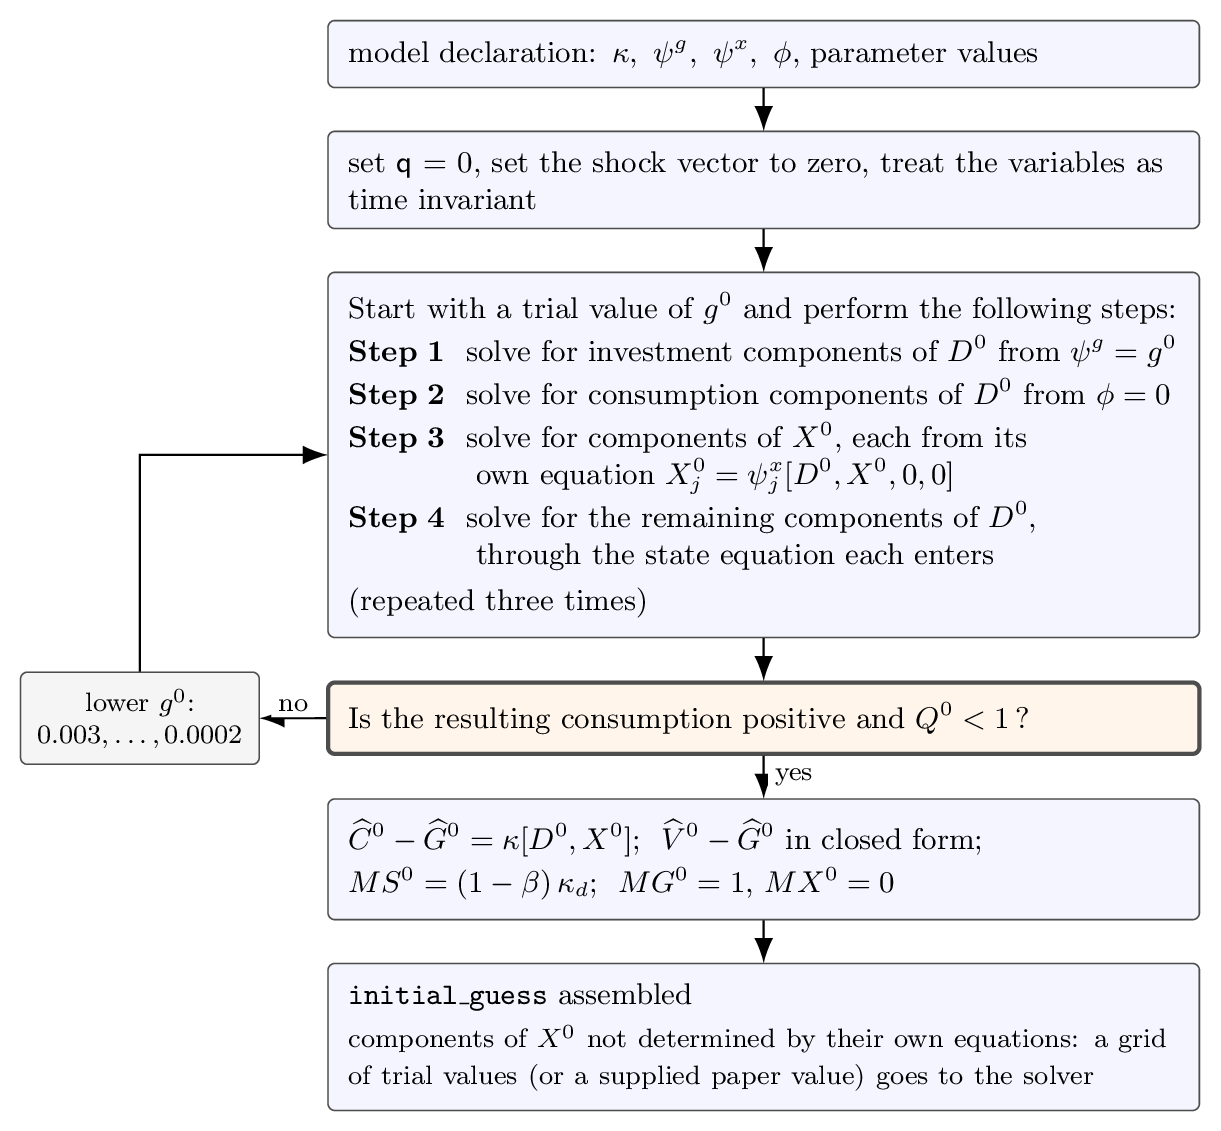
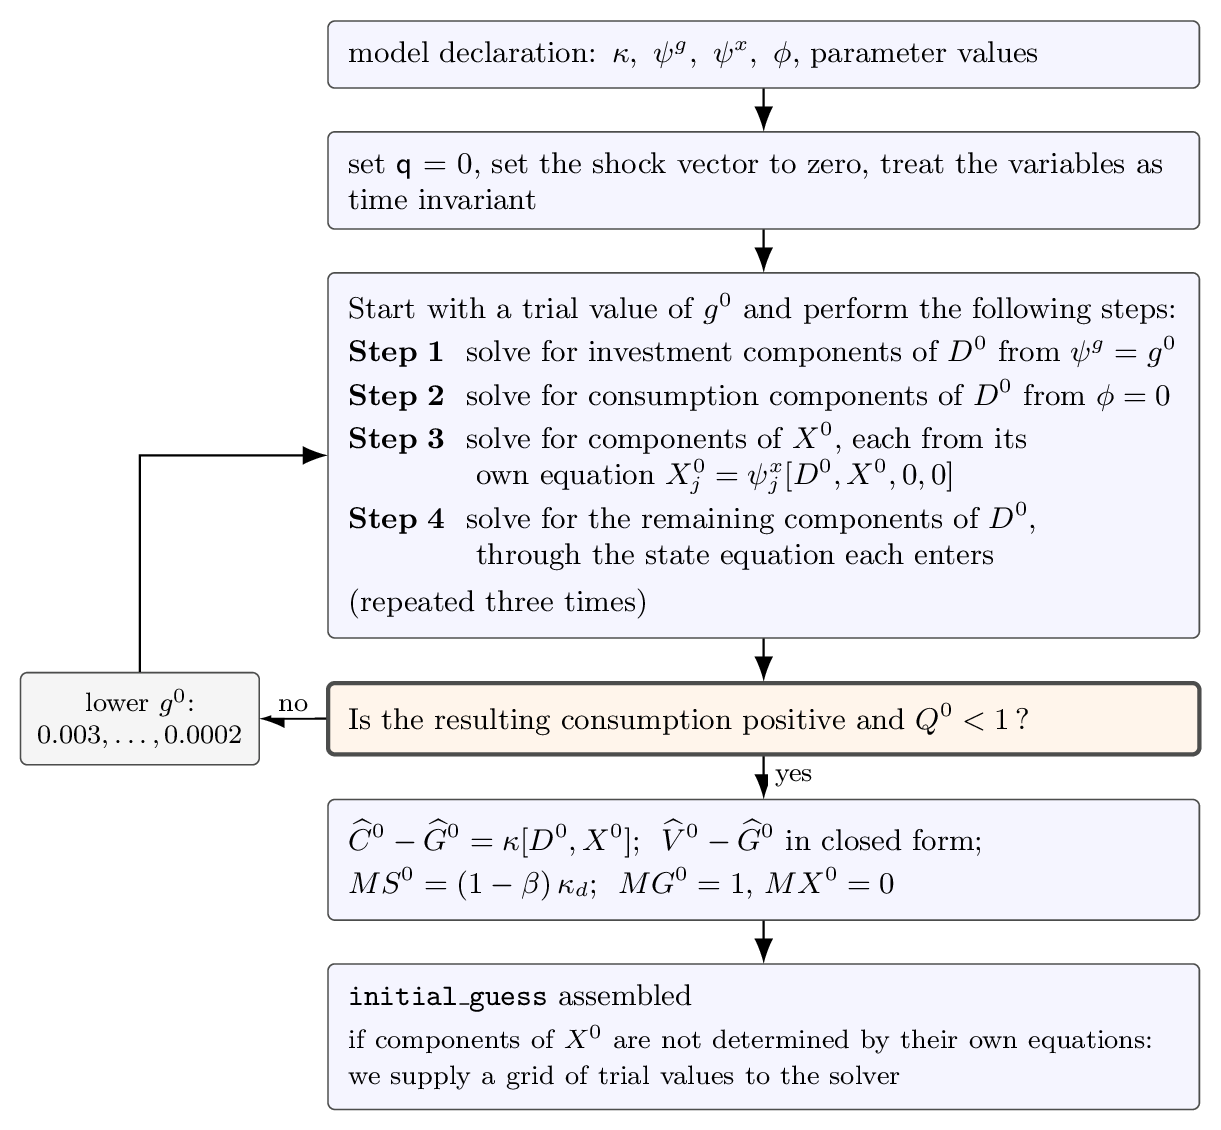
readme in first-person active voice; recompile flow chart with the revised bottom box

diff --git a/v2/support_material/flowchart.tex b/v2/support_material/flowchart.tex
@@ -45,8 +45,8 @@
    $MS^0=(1-\beta)\,\kappa_d$;\ \ $MG^0=1$,\ $MX^0=0$};
 \node[box, below=4.5mm of val] (ig)
   {\texttt{initial\_guess} assembled\\[2pt]
-   \footnotesize components of $X^0$ not determined by their own equations:
-   a grid of trial values (or a supplied paper value) goes to the solver};
+   \footnotesize if components of $X^0$ are not determined by their own equations:
+   we supply a grid of trial values to the solver};
 
 % ---------------- arrows ----------------
 \draw[a] (decl) -- (det);

diff --git a/v2/README.md b/v2/README.md
@@ -9,23 +9,28 @@ steady-state objects
 
 $$ \widehat V^0-\widehat G^0,\quad \widehat C^0-\widehat G^0,\quad D^0,\quad MS^0,\quad MX^0,\quad MG^0,\quad \widehat G_{t+1}^0-\widehat G_t^0,\quad X^0. $$
 
-The only substantive change in v2 is that these values are constructed
-from $\kappa,\psi^g,\psi^x,\phi$ when `initial_guess=None`; the expansion
-and root solver are unchanged. Components of $X^0$ not determined by
+The only substantive change in v2: when `initial_guess=None`, we
+construct these values from $\kappa,\psi^g,\psi^x,\phi$. The expansion
+and the root solver are unchanged.
 
-$$ X^0=\psi^x[D^0,X^0,0,0] $$
+If components of $X^0$ are not determined by their own equations
 
-are handled by a grid of trial values. Paper values, when available,
-remain optional and are reported separately. When the target parameter
-values do not solve directly, the code moves one parameter at a time
-from the defaults toward the target, restarting from the previous
-solution; every reported solution must satisfy the model equations and
-the complete steady-state system to within $10^{-6}$.
+$$ X^0=\psi^x[D^0,X^0,0,0], $$
 
-Six economies are included: the appendix's AK and habit models,
+we supply a grid of trial values to the solver. If a paper reports its
+steady-state values, we can start from them instead, and we report the
+two starting points separately: a solve without paper values, checked
+against the paper, is an independent check; a solve started from the
+paper's values is a consistency check. If the target parameter values
+do not solve directly, we move one parameter at a time from the
+defaults, restarting from the previous solution. We report a solution
+only when the model equations and the complete steady-state system hold
+to within $10^{-6}$.
+
+We include six economies: the appendix's AK and habit models,
 Kaltenbrunner–Lochstoer, Ai–Croce–Li, Croce, and Tallarini
-($\chi=100$). Five solve without paper values. Ai–Croce–Li is the
-exception and is therefore reported as a consistency check.
+($\chi=100$). Five solve without paper values; Ai–Croce–Li is the
+exception and we report it as a consistency check.
 
 ## Files
 
@@ -37,10 +42,10 @@ exception and is therefore reported as a consistency check.
 | `support_material/` | six error surfaces, overview figure, the script and numerical arrays that reproduce them, the solve record, and hashes |
 
 Start with `support_material/landscapes_overview.png`. Each panel varies
-one component of $X^0$ and one investment component of $D^0$ while
-constructing the remaining appendix objects from the model equations.
-The surface reports the error in the complete steady-state system; the
-floor markers report which starting points converge. It is numerical
+one component of $X^0$ and one investment component of $D^0$ and
+constructs the remaining appendix objects from the model equations. The
+surface reports the error in the complete steady-state system; the floor
+markers report which starting points converge. It is numerical
 validation, not a convexity claim.
 
 The separately tested extension to the first-order-condition assembly is
